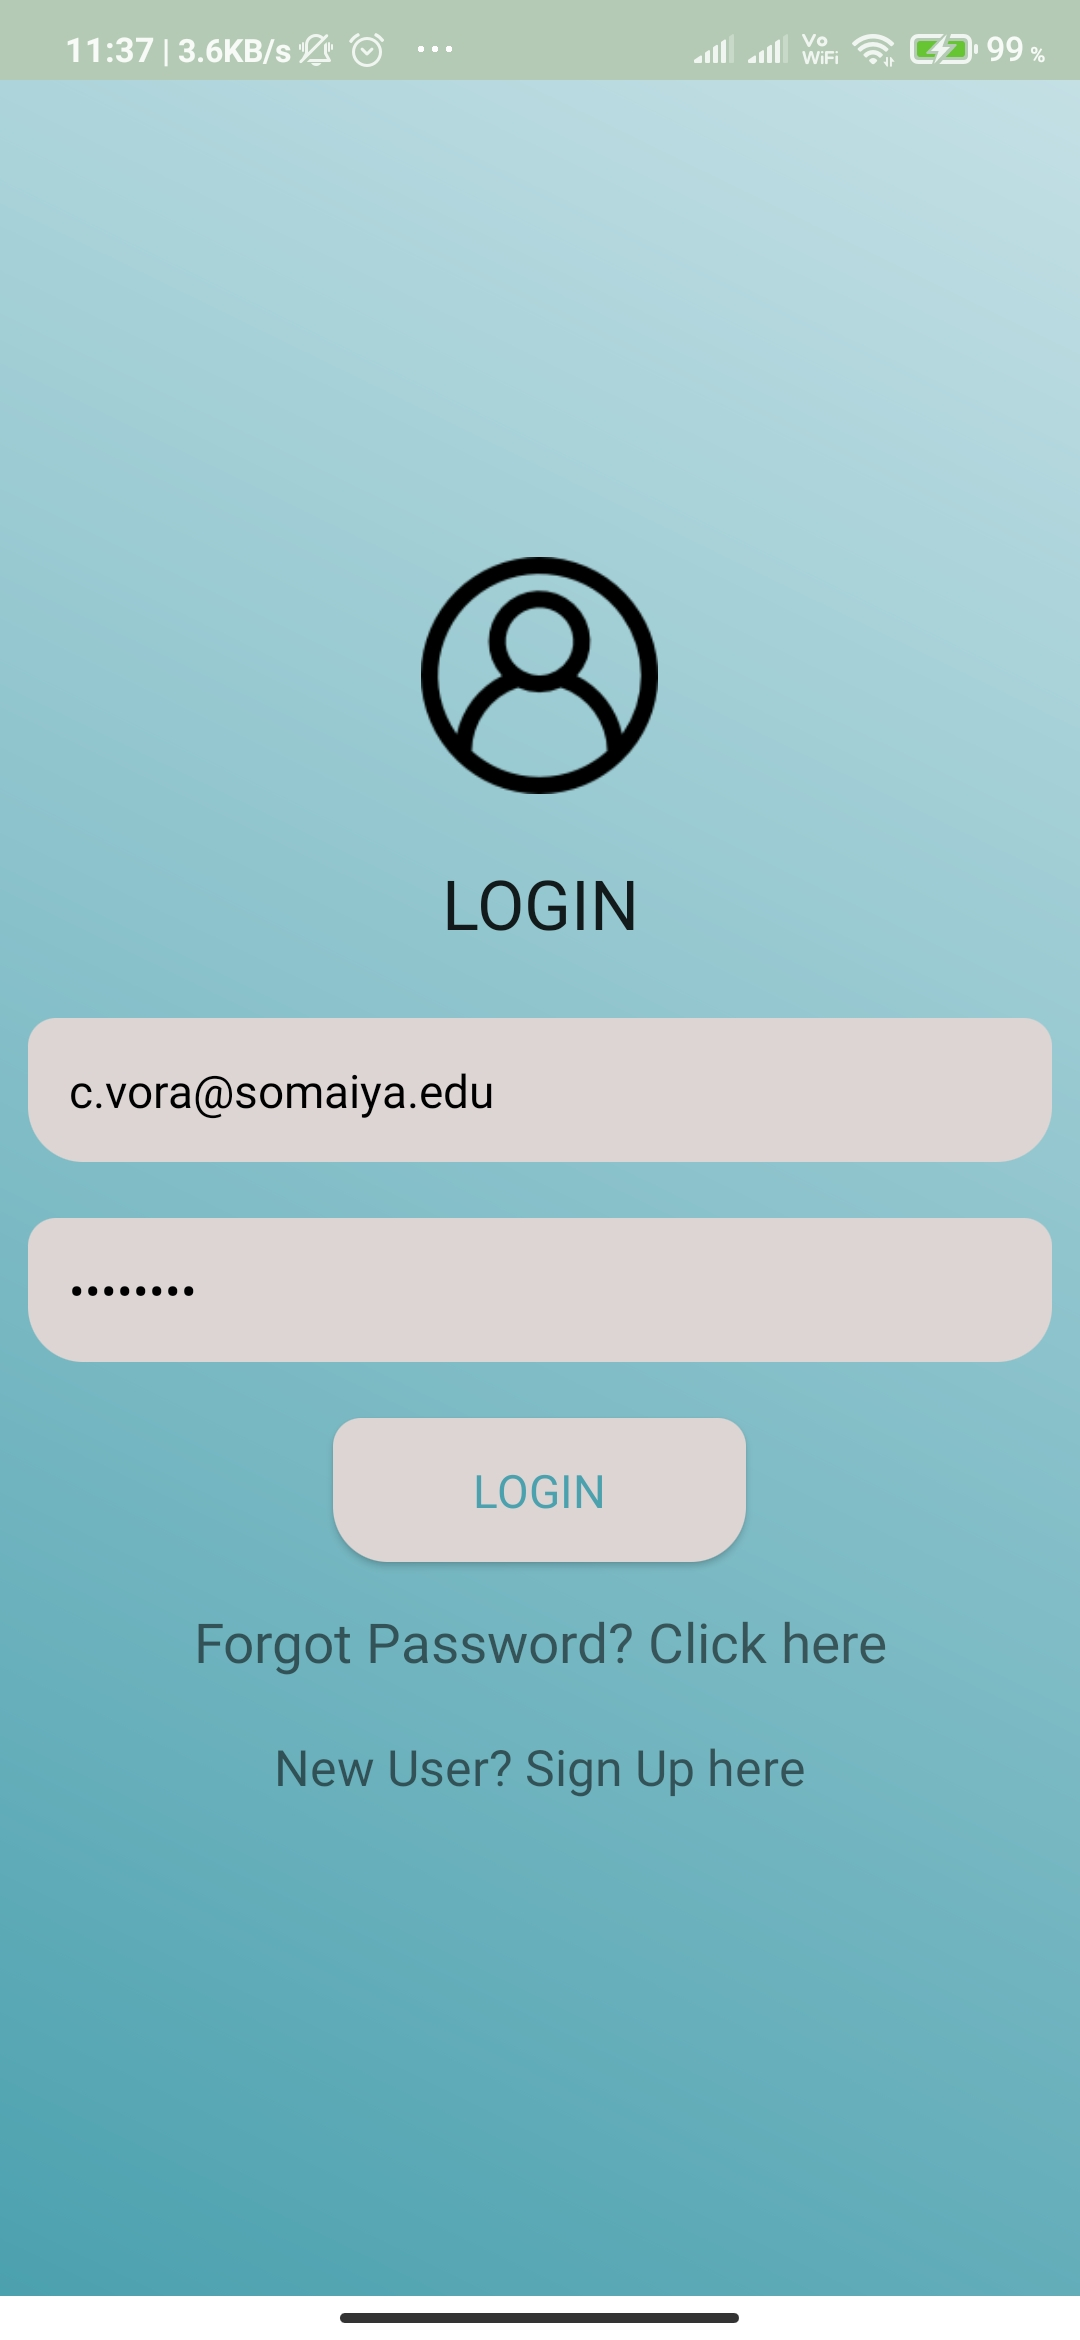
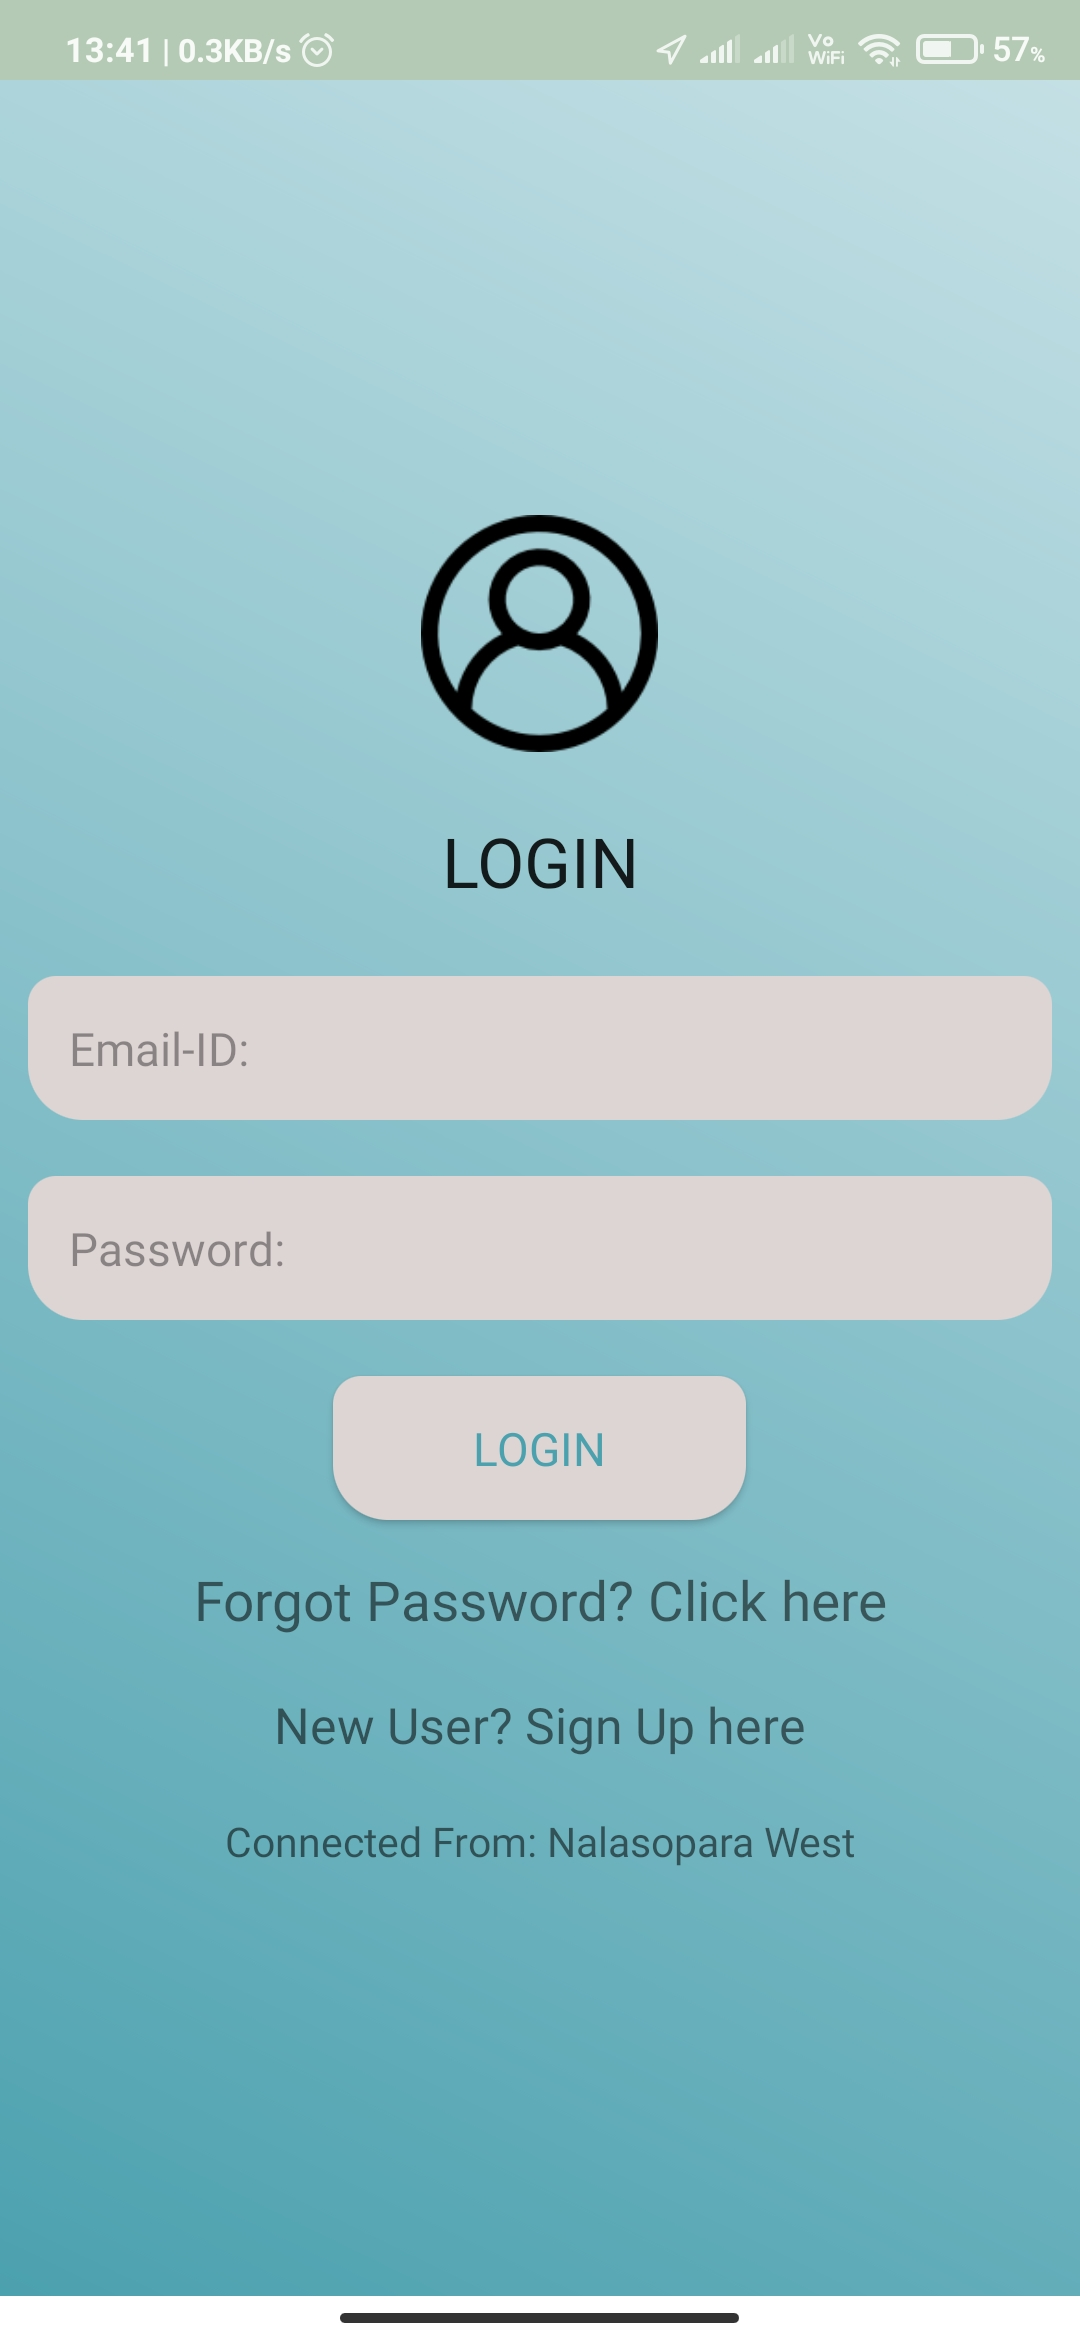
Added Location services

diff --git a/app/src/main/java/com/chintan/my_expense_manager/MainActivity.java b/app/src/main/java/com/chintan/my_expense_manager/MainActivity.java
@@ -3,11 +3,18 @@ package com.chintan.my_expense_manager;
 import androidx.annotation.NonNull;
 import androidx.appcompat.app.AlertDialog;
 import androidx.appcompat.app.AppCompatActivity;
+import androidx.core.app.ActivityCompat;
 
+import android.Manifest;
 import android.app.ProgressDialog;
 import android.content.DialogInterface;
 import android.content.Intent;
+import android.content.pm.PackageManager;
+import android.location.Address;
+import android.location.Geocoder;
+import android.location.Location;
 import android.os.Bundle;
+import android.os.Looper;
 import android.text.TextUtils;
 import android.view.View;
 import android.widget.Button;
@@ -15,24 +22,64 @@ import android.widget.EditText;
 import android.widget.TextView;
 import android.widget.Toast;
 
+import com.google.android.gms.location.FusedLocationProviderClient;
+import com.google.android.gms.location.LocationCallback;
+import com.google.android.gms.location.LocationRequest;
+import com.google.android.gms.location.LocationResult;
+import com.google.android.gms.location.LocationServices;
 import com.google.android.gms.tasks.OnCompleteListener;
 import com.google.android.gms.tasks.Task;
 import com.google.firebase.auth.AuthResult;
 import com.google.firebase.auth.FirebaseAuth;
 
+import java.io.IOException;
+import java.util.List;
+
 public class MainActivity extends AppCompatActivity {
 
     private EditText mEmail,mPass;
     private Button btn_login;
-    private TextView txt_forgot_pass, txt_signup;
+    private TextView txt_forgot_pass, txt_signup, loca;
     private ProgressDialog dialog;
     private FirebaseAuth mAuth;
+    FusedLocationProviderClient client;
+    LocationRequest request;
+    LocationCallback callback;
+    Location location;
 
 
     @Override
     protected void onCreate(Bundle savedInstanceState) {
         super.onCreate(savedInstanceState);
         setContentView(R.layout.activity_main);
+
+        client = LocationServices.getFusedLocationProviderClient(getApplicationContext());
+        request = new LocationRequest();
+        request.setPriority(LocationRequest.PRIORITY_HIGH_ACCURACY);
+        request.setInterval(4000);
+        request.setFastestInterval(2000);
+        callback = new LocationCallback() {
+            @Override
+            public void onLocationResult(LocationResult locationResult) {
+                location = locationResult.getLocations().get(0);
+                String Loc1 = "location:" + " , " + location.getLatitude() + " , " + location.getLongitude();
+                loca = findViewById(R.id.location1);
+                loca.setText(Loc1);
+                convertToAddress(location);
+                super.onLocationResult(locationResult);
+            }
+        };
+        if (ActivityCompat.checkSelfPermission(this, Manifest.permission.ACCESS_FINE_LOCATION) != PackageManager.PERMISSION_GRANTED && ActivityCompat.checkSelfPermission(this, Manifest.permission.ACCESS_COARSE_LOCATION) != PackageManager.PERMISSION_GRANTED) {
+            // TODO: Consider calling
+            //    ActivityCompat#requestPermissions
+            // here to request the missing permissions, and then overriding
+            //   public void onRequestPermissionsResult(int requestCode, String[] permissions,
+            //                                          int[] grantResults)
+            // to handle the case where the user grants the permission. See the documentation
+            // for ActivityCompat#requestPermissions for more details.
+            return;
+        }
+        client.requestLocationUpdates(request, callback, Looper.myLooper());
 
         mAuth = FirebaseAuth.getInstance();
 
@@ -120,5 +167,21 @@ public class MainActivity extends AppCompatActivity {
                 .show();
         moveTaskToBack(true);
         finish();
+    }
+
+    private void convertToAddress(Location location) {
+        Geocoder geocoder = new Geocoder(getApplicationContext());
+        List<Address> lAds = null;
+        try {
+            lAds = geocoder.getFromLocation(location.getLatitude(),location.getLongitude(),1);
+            Address ad = lAds.get(0);
+
+            String Add_1 = "Connected From: " + ad.getSubLocality();
+            loca.setText(Add_1);
+
+        } catch (IOException e) {
+            e.printStackTrace();
+        }
+
     }
 }
